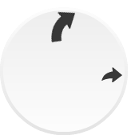
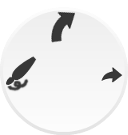
Improved gesture to allow fow line drawing anytime

Changed region(s): [[0.0312, 0.4148, 0.2812, 0.6815]]

diff --git a/js/input/drawGesture.js b/js/input/drawGesture.js
@@ -1,6 +1,6 @@
 class DrawGesture
 {
-    constructor(_game, _inputManager)
+    constructor(_game, _inputManager, _initialPoint)
     {
         this.game = _game;
         this.points = [];
@@ -11,6 +11,11 @@ class DrawGesture
         this.contextCb;
         this.removeUpdateSignal = false;
         this.inputManager = _inputManager;
+        
+        if(_initialPoint)
+        {
+            this.addPoint(_initialPoint);
+        }
     }
     
     add(_function, _context)
@@ -21,6 +26,7 @@ class DrawGesture
         this.functionCb = _function;
         this.contextCb = _context;
         this.removeUpdateSignal = false;
+        
     }
     
     remove(_function, _cont)
@@ -92,7 +98,7 @@ class DrawGesture
         }
         
         //remove update signal only when finished and graphics are not shown anymore
-        if (this.polyFillAlpha == 1.0 && this.removeUpdateSignal)
+        if (this.points.length == 0 && this.polyFillAlpha == 1.0 && this.removeUpdateSignal)
         {
             this.game.updateSignal.remove(this.update, this);
             this.removeUpdateSignal = false;
@@ -120,8 +126,13 @@ class DrawGesture
     {
         if (pointer.isDown && !this.game.isPaused())
         {
-            var inputOffset = ServiceLocator.viewportHandler.getSceneOffset();
-            this.points.push({'point':new Phaser.Point(x + inputOffset.x, y + inputOffset.y), 'time':performance.now()});
+            this.addPoint(new Phaser.Point(x,y));
         }
+    }
+    
+    addPoint(_point)
+    {
+        var inputOffset = ServiceLocator.viewportHandler.getSceneOffset();
+        this.points.push({'point':new Phaser.Point(_point.x + inputOffset.x, _point.y + inputOffset.y), 'time':performance.now()});
     }
 }

diff --git a/js/input/directionGesture.js b/js/input/directionGesture.js
@@ -3,6 +3,7 @@ class DirectionGesture
     constructor(_game, _inputManager)
     {
         this.game = _game;
+        this.inputManager = _inputManager;
         this.initialPos;
         this.curAngle;
     }
@@ -179,12 +180,10 @@ class PlayerDirectionGesture extends DirectionGesture
         if (this.initialPos)
         {
             var curPos = this.getMousePos();
-            var distance = this.initialPos.distance(curPos);
+            var realDistance = this.initialPos.distance(curPos);
             var vectorDifference = curPos.clone().subtract(this.initialPos.x, this.initialPos.y).normalize();
-            if (distance > 50)
-            {
-                distance = 50;
-            }
+            var distance = realDistance < 50 ? realDistance : 50;
+            
             vectorDifference.setMagnitude(distance);
             this.stickSprite.x = this.initialPos.x + vectorDifference.x;
             this.stickSprite.y = this.initialPos.y + vectorDifference.y;
@@ -193,6 +192,18 @@ class PlayerDirectionGesture extends DirectionGesture
             
             this.curAngle = angle < 0 ? angle + 360: angle;
             
+            
+            if (realDistance > 70)
+            {
+                    if (this.curAngle > 135 && this.curAngle < 205)
+                    {
+                        this.drawGesture = new DrawGesture(this.game, this.inputManager, this.initialPos);
+                        this.drawGesture.add(()=> this.drawGesture.remove());
+                        this.initialPos = undefined;
+                        this.reset();
+                    }
+            }
+
             if (this.curAngle < 45)
             {
                 this.curAngle = 340;
